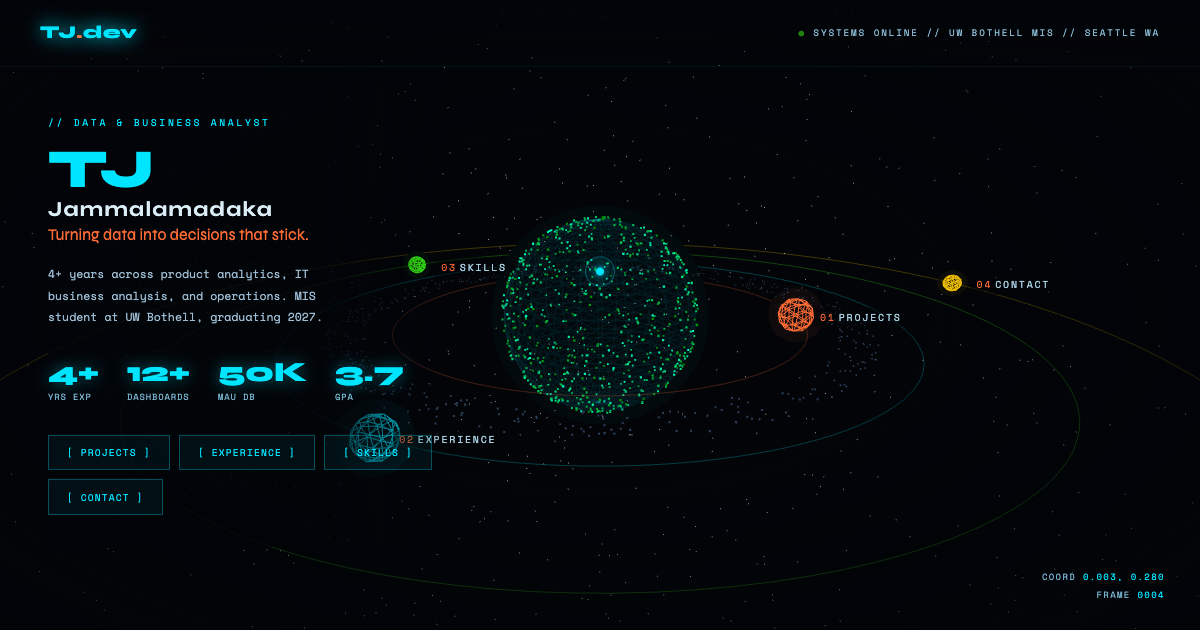
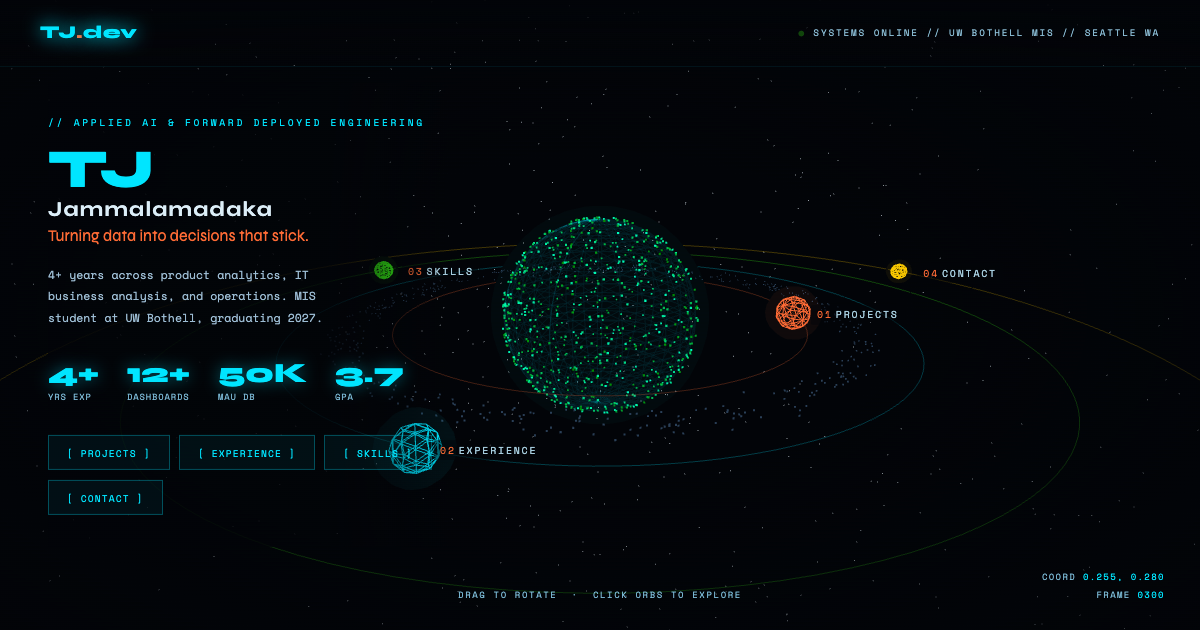
feat: reposition site for applied AI, add flagship AI projects
The page sold a data and business analyst; the roles being applied for are
applied AI and forward deployed engineering. Wording is taken from the
GitHub profile README and bio rather than newly written.

- Retitle the page, hero eyebrow, meta description, and og/twitter title
  and description to applied AI and forward deployed engineering.
- Point the contact line at applied AI and forward deployed engineering
  roles starting June 2027, keeping Seattle, WA.
- Add ragproof, claude-skill-audit, and The Breaker as the first three
  project cards, described from each repo's own description and README.
- Regenerate og-image.png so the preview no longer bakes in the old role
  line.

Claude-Session: https://claude.ai/code/session_01G2dh9MGuop5CrMNzpmfQwa

diff --git a/index.html b/index.html
@@ -3,25 +3,25 @@
 <head>
 <meta charset="UTF-8">
 <meta name="viewport" content="width=device-width, initial-scale=1.0">
-<meta name="description" content="TJ Jammalamadaka — data and business analyst portfolio. SQL, Python, Tableau, Excel modeling, and live dashboards. Seattle, WA.">
+<meta name="description" content="TJ Jammalamadaka builds applied AI systems, and the harnesses that check whether they're telling the truth. Applied AI at The Coca-Cola Company. Seattle, WA.">
 <meta name="theme-color" content="#020408">
 <meta name="color-scheme" content="dark">
-<title>TJ Jammalamadaka — Data & Business Analyst</title>
+<title>TJ Jammalamadaka | Applied AI & Forward Deployed Engineering</title>
 <link rel="canonical" href="https://tarang-tj.github.io/">
 
 <!-- LINK PREVIEWS -->
 <meta property="og:type" content="website">
 <meta property="og:site_name" content="TJ Jammalamadaka">
 <meta property="og:url" content="https://tarang-tj.github.io/">
-<meta property="og:title" content="TJ Jammalamadaka — Data &amp; Business Analyst">
-<meta property="og:description" content="TJ Jammalamadaka — data and business analyst portfolio. SQL, Python, Tableau, Excel modeling, and live dashboards. Seattle, WA.">
+<meta property="og:title" content="TJ Jammalamadaka | Applied AI &amp; Forward Deployed Engineering">
+<meta property="og:description" content="TJ Jammalamadaka builds applied AI systems, and the harnesses that check whether they're telling the truth. Applied AI at The Coca-Cola Company. Seattle, WA.">
 <meta property="og:image" content="https://tarang-tj.github.io/og-image.png">
 <meta property="og:image:width" content="1200">
 <meta property="og:image:height" content="630">
 <meta property="og:image:alt" content="TJ Jammalamadaka portfolio — interactive 3D space scene homepage">
 <meta name="twitter:card" content="summary_large_image">
-<meta name="twitter:title" content="TJ Jammalamadaka — Data &amp; Business Analyst">
-<meta name="twitter:description" content="TJ Jammalamadaka — data and business analyst portfolio. SQL, Python, Tableau, Excel modeling, and live dashboards. Seattle, WA.">
+<meta name="twitter:title" content="TJ Jammalamadaka | Applied AI &amp; Forward Deployed Engineering">
+<meta name="twitter:description" content="TJ Jammalamadaka builds applied AI systems, and the harnesses that check whether they're telling the truth. Applied AI at The Coca-Cola Company. Seattle, WA.">
 <meta name="twitter:image" content="https://tarang-tj.github.io/og-image.png">
 
 <link rel="icon" href="/favicon.svg" type="image/svg+xml">
@@ -789,7 +789,7 @@ a.proj-card {
 
 <!-- HERO -->
 <div id="hero">
-  <div class="hero-eyebrow">// Data &amp; Business Analyst</div>
+  <div class="hero-eyebrow">// Applied AI &amp; Forward Deployed Engineering</div>
   <div class="hero-name"><span class="hl">TJ</span><br><span class="hero-last">Jammalamadaka</span></div>
   <div class="hero-role">Turning data into decisions that stick.</div>
   <div class="hero-desc">4+ years across product analytics, IT business analysis, and operations. MIS student at UW Bothell, graduating 2027.</div>
@@ -847,6 +847,41 @@ a.proj-card {
     <div class="panel-tag">// 01 — Work</div>
     <p class="panel-lede">End-to-end analytics: live apps, GitHub Pages case studies, and repos. Use the links on each card to open the demo or source.</p>
     <div class="proj-grid">
+      <article class="proj-card">
+        <div class="proj-yr">2026 · Open-source library</div>
+        <div class="proj-name">ragproof</div>
+        <div class="proj-desc">Open-source RAG evaluation harness: retrieval metrics (hit@k, MRR, nDCG, recall), answer faithfulness and relevance, cost tracking, and query drift detection, benchmarked on BEIR. Python package with a CLI and an offline demo corpus that runs with no keys or downloads.</div>
+        <div class="proj-tags">
+          <span class="ptag">Python</span><span class="ptag">RAG</span><span class="ptag">Evaluation</span><span class="ptag">BEIR</span><span class="ptag">Retrieval</span>
+        </div>
+        <div class="proj-card-links">
+          <a href="https://tarang-tj.github.io/ragproof/" target="_blank" rel="noopener noreferrer" aria-label="ragproof: open live site">Live site ↗</a>
+          <a href="https://github.com/tarang-tj/ragproof" target="_blank" rel="noopener noreferrer" aria-label="ragproof: open GitHub repository">GitHub ↗</a>
+        </div>
+      </article>
+      <article class="proj-card">
+        <div class="proj-yr">2026 · CLI tool</div>
+        <div class="proj-name">claude-skill-audit</div>
+        <div class="proj-desc">Security-audit an entire Claude Code setup in one command. Scans skills, agents, hooks, permissions, and MCP configs for prompt-injection, supply-chain, and secret-exposure risks, then links the findings into escalation chains. TypeScript, zero dependencies.</div>
+        <div class="proj-tags">
+          <span class="ptag">TypeScript</span><span class="ptag">CLI</span><span class="ptag">Security</span><span class="ptag">Static Analysis</span><span class="ptag">Claude Code</span>
+        </div>
+        <div class="proj-card-links">
+          <a href="https://github.com/tarang-tj/claude-skill-audit" target="_blank" rel="noopener noreferrer" aria-label="claude-skill-audit: open GitHub repository">Repository ↗</a>
+        </div>
+      </article>
+      <article class="proj-card">
+        <div class="proj-yr">2026 · Hardware design</div>
+        <div class="proj-name">The Breaker</div>
+        <div class="proj-desc">A physical dead-man kill-switch for an autonomous AI agent fleet. A guarded switch gates short-TTL authority tokens served by a Raspberry Pi, and every agent must fetch a fresh token before it acts, so any break in the chain fails safe to HALT. Design of record complete and audited; the hardware build is next.</div>
+        <div class="proj-tags">
+          <span class="ptag">Raspberry Pi</span><span class="ptag">AI Safety</span><span class="ptag">Hardware</span><span class="ptag">Fail-Safe Design</span>
+        </div>
+        <div class="proj-card-links">
+          <a href="https://tarang-tj.github.io/the-breaker/" target="_blank" rel="noopener noreferrer" aria-label="The Breaker: open live design page">Live site ↗</a>
+          <a href="https://github.com/tarang-tj/the-breaker" target="_blank" rel="noopener noreferrer" aria-label="The Breaker: open GitHub repository">GitHub ↗</a>
+        </div>
+      </article>
       <article class="proj-card">
         <div class="proj-yr">2026 · Full-stack app</div>
         <div class="proj-name">AutoAppli</div>
@@ -1022,7 +1057,7 @@ a.proj-card {
     <div class="contact-split">
       <div>
         <div class="contact-big">Let's build<br>something <span>good.</span></div>
-        <div class="contact-copy">Open to data analyst, business analyst, and ops roles. Based in Seattle, WA.</div>
+        <div class="contact-copy">Open to applied AI and forward deployed engineering roles starting June 2027. Based in Seattle, WA.</div>
       </div>
       <div class="contact-links">
         <a href="mailto:tarangjammalamadaka9@gmail.com" class="clink">
